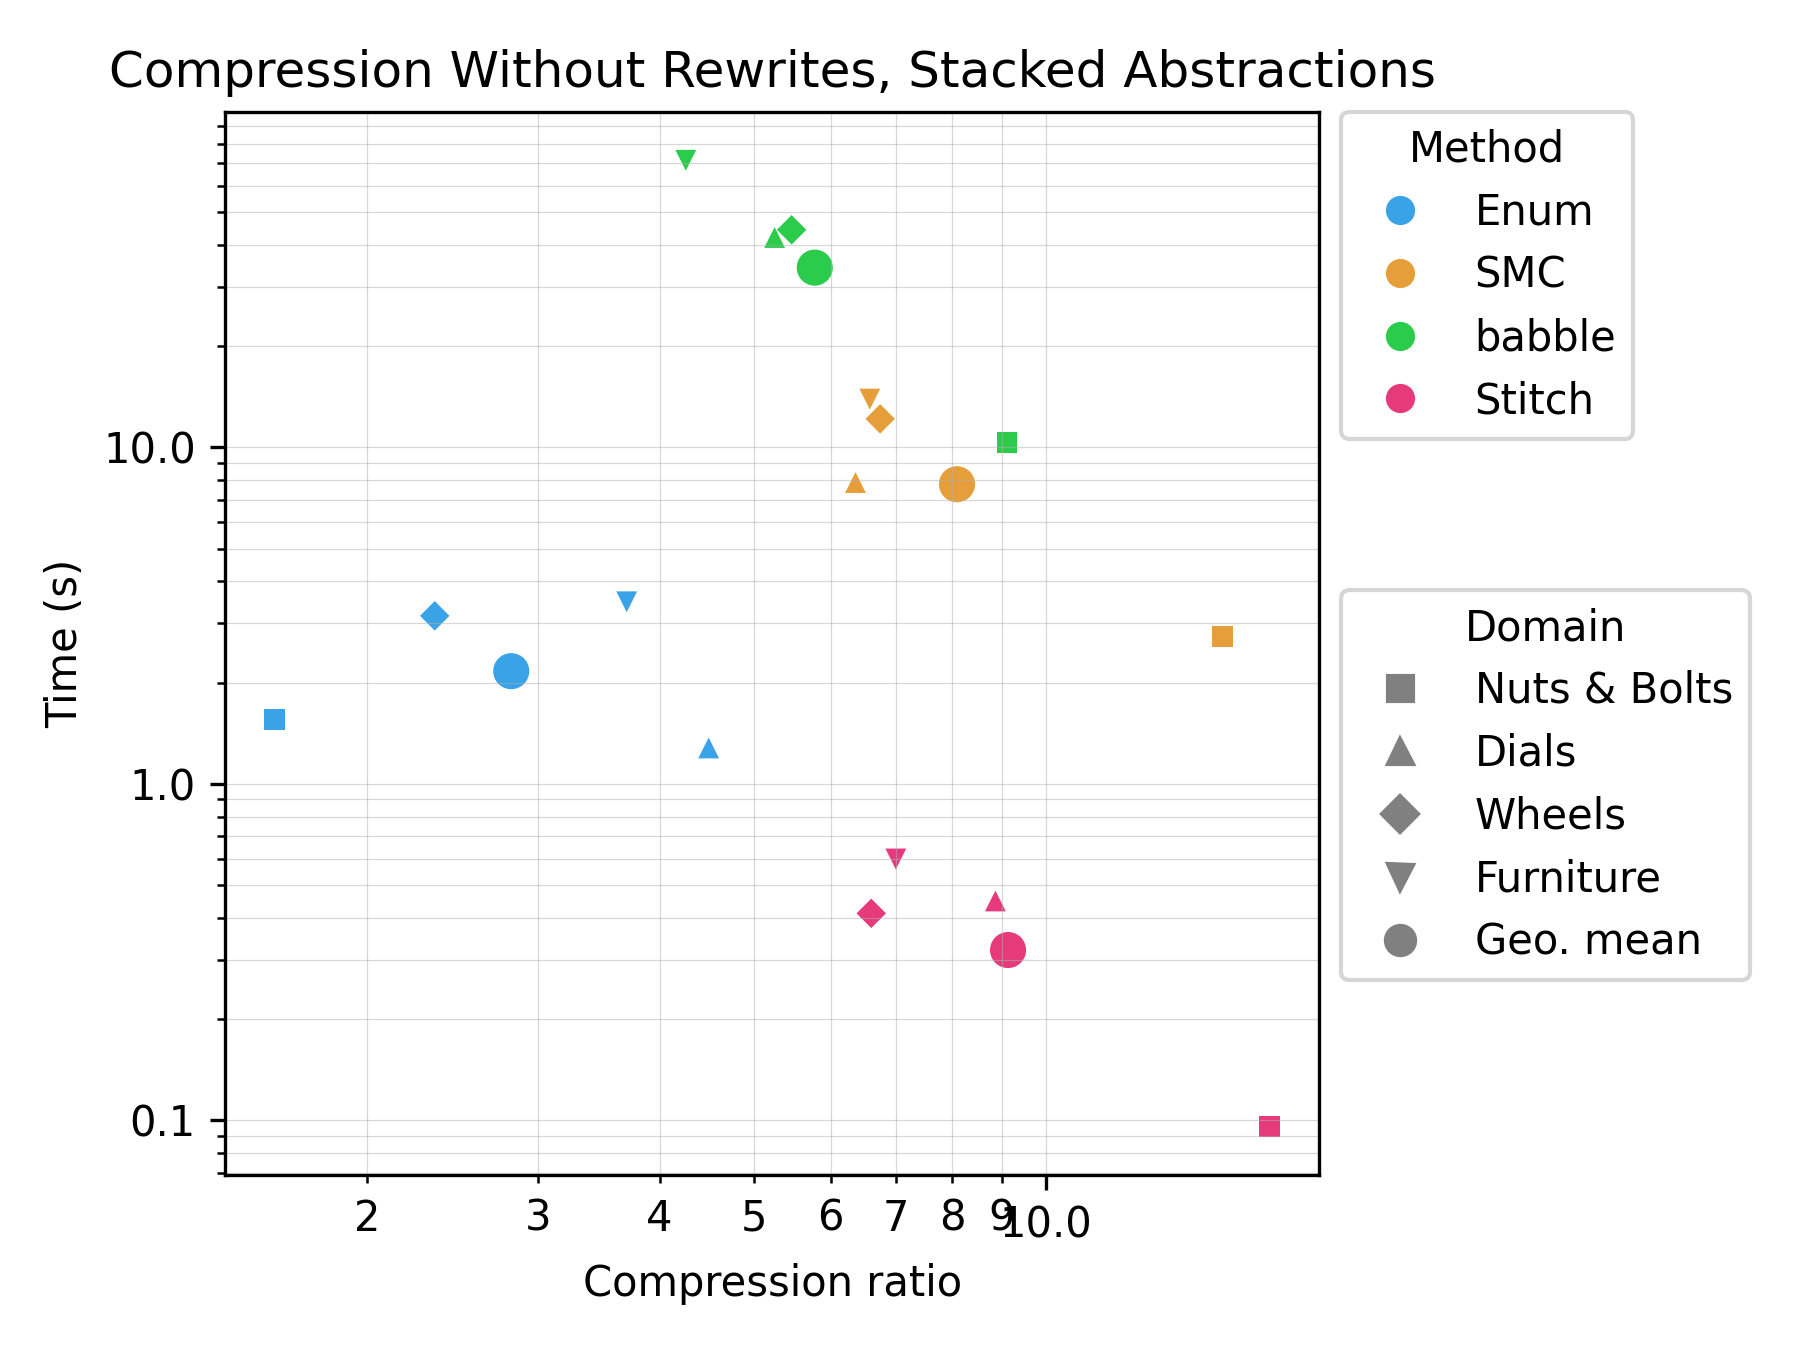
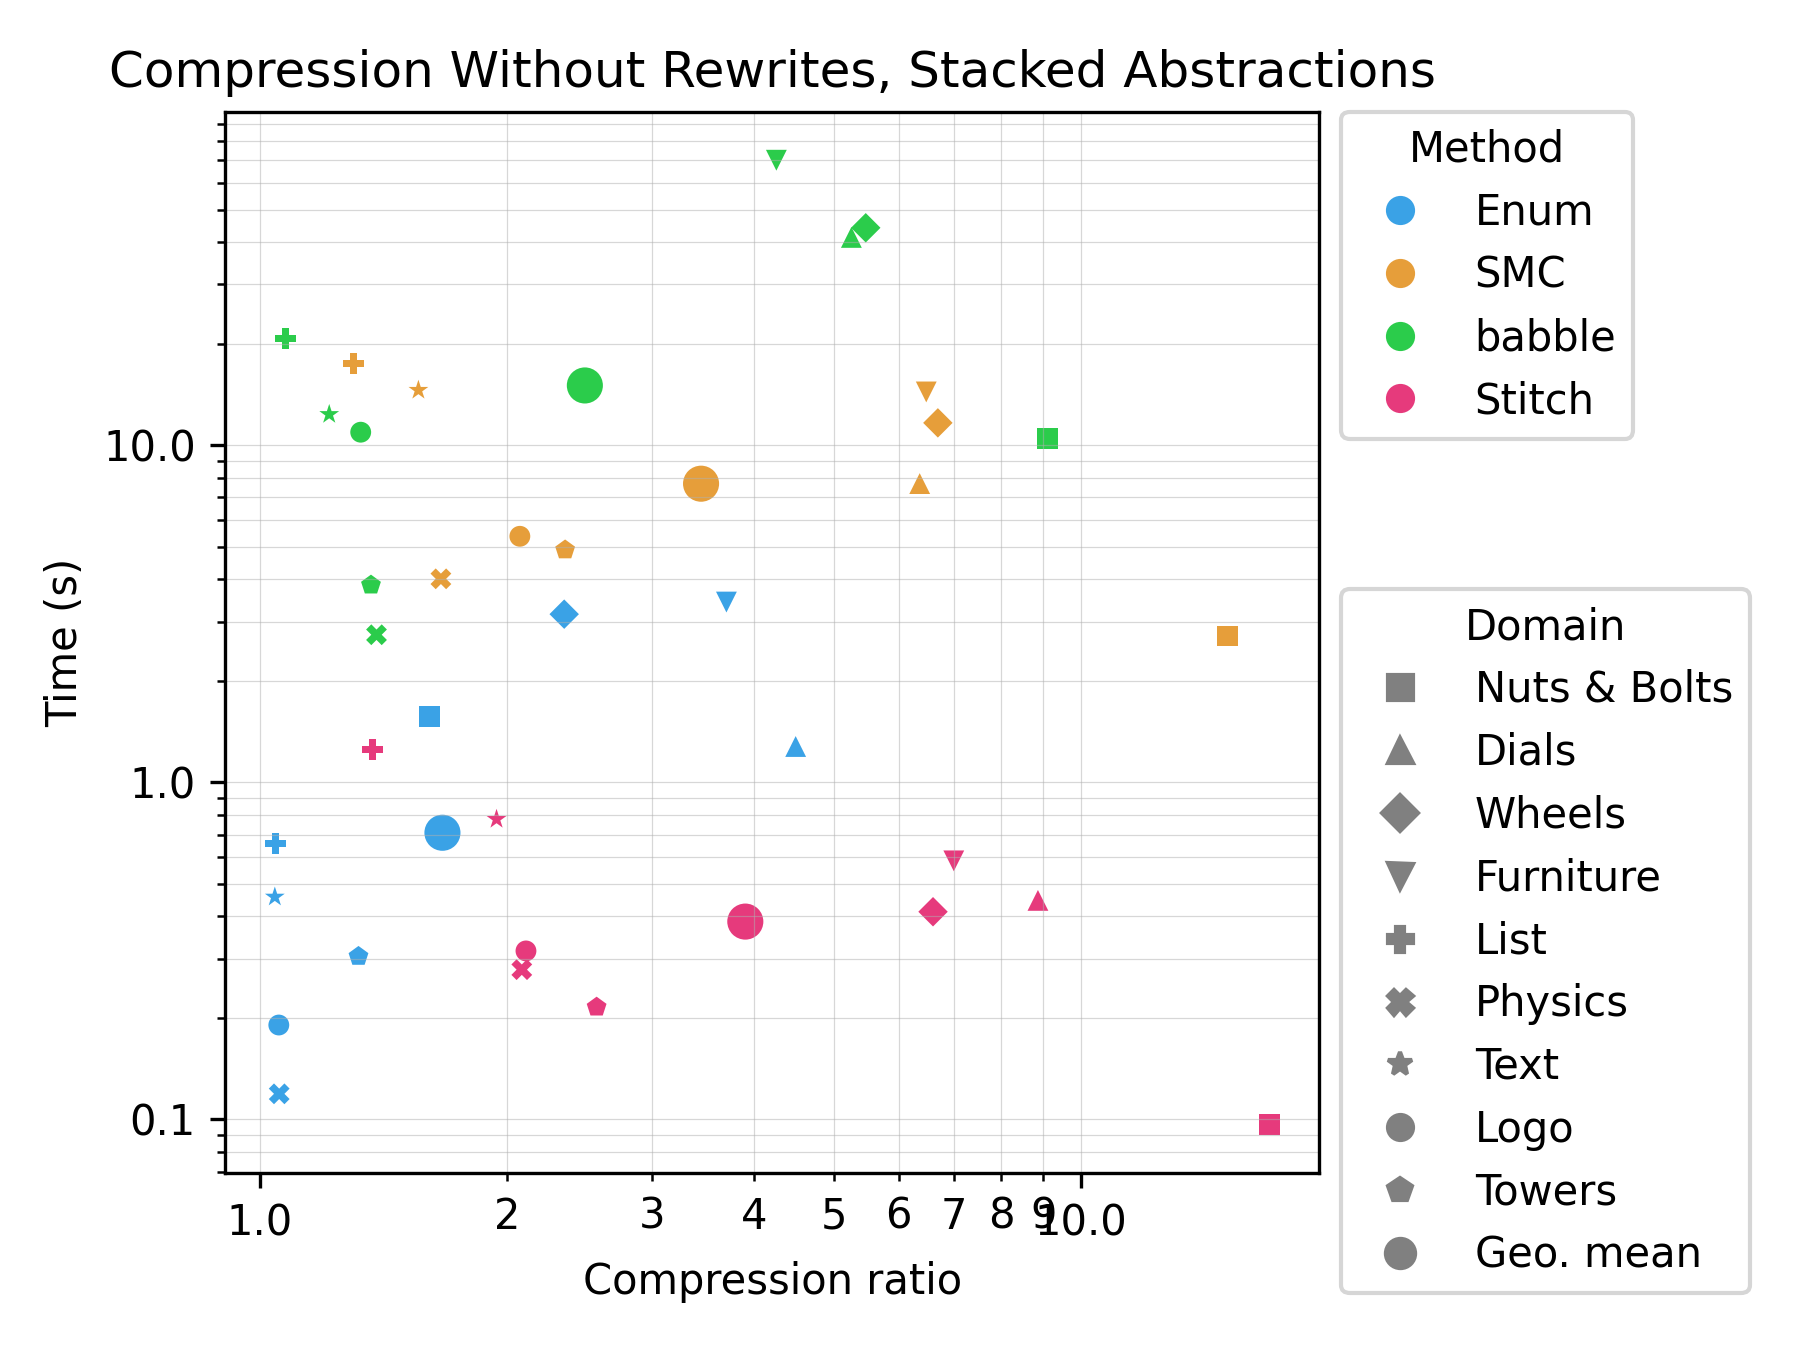
update figures

diff --git a/figures/table4.tex b/figures/table4.tex
@@ -1,4 +1,4 @@
-% source: /home/kavi/mit/egg-stitch/viz/results/table4/2026-05-06_07-55-36/table4.json
+% source: /home/kavi/mit/egg-stitch/viz/results/table4/2026-05-06_17-04-33/table4.json
 % Compression Without Rewrites, Stacked Abstractions: generated from results JSON
 \begin{tabular}{l r  rrrr rrrr}
 \toprule
@@ -6,11 +6,16 @@
 \cmidrule(lr){2-2} \cmidrule(lr){3-6} \cmidrule(lr){7-10}
 Domain & Original & Enum & SMC & babble & Stitch & Enum & SMC & babble & Stitch \\
 \midrule
-Nuts \& Bolts & 19009 & 1.61 & 15.19 & 9.11 & \textbf{16.99} & 1.559 & 2.744 & 10.318 & \textbf{0.096} \\
-Dials & 35713 & 4.49 & 6.36 & 5.25 & \textbf{8.87} & 1.279 & 7.864 & 42.058 & \textbf{0.449} \\
-Wheels & 35427 & 2.35 & \textbf{6.75} & 5.47 & 6.61 & 3.159 & 12.158 & 44.328 & \textbf{0.413} \\
-Furniture & 42936 & 3.70 & 6.58 & 4.26 & \textbf{7.00} & 3.478 & 13.919 & 71.311 & \textbf{0.598} \\
+Nuts \& Bolts & 19009 & 1.61 & 15.09 & 9.11 & \textbf{16.99} & 1.566 & 2.716 & 10.453 & \textbf{0.096} \\
+Dials & 35713 & 4.49 & 6.36 & 5.25 & \textbf{8.87} & 1.277 & 7.698 & 41.378 & \textbf{0.446} \\
+Wheels & 35427 & 2.35 & \textbf{6.70} & 5.47 & 6.61 & 3.154 & 11.654 & 44.191 & \textbf{0.413} \\
+Furniture & 42936 & 3.70 & 6.48 & 4.26 & \textbf{7.00} & 3.426 & 14.396 & 70.107 & \textbf{0.585} \\
+List & 35680 & 1.04 & 1.30 & 1.07 & \textbf{1.37} & \textbf{0.659} & 17.459 & 20.731 & 1.250 \\
+Physics & 9405 & 1.06 & 1.66 & 1.39 & \textbf{2.08} & \textbf{0.119} & 4.016 & 2.741 & 0.278 \\
+Text & 30002 & 1.04 & 1.56 & 1.21 & \textbf{1.94} & \textbf{0.457} & 14.574 & 12.354 & 0.777 \\
+Logo & 11228 & 1.05 & 2.07 & 1.33 & \textbf{2.11} & \textbf{0.190} & 5.370 & 10.935 & 0.316 \\
+Towers & 9556 & 1.32 & 2.35 & 1.37 & \textbf{2.57} & 0.304 & 4.893 & 3.849 & \textbf{0.215} \\
 \midrule
-Geo. mean &  & 2.81 & 8.09 & 5.78 & \textbf{9.14} & 2.163 & 7.774 & 34.223 & \textbf{0.321} \\
+Geo. mean &  & 1.67 & 3.45 & 2.49 & \textbf{3.90} & 0.708 & 7.691 & 15.049 & \textbf{0.386} \\
 \bottomrule
 \end{tabular}

diff --git a/figures/table2.tex b/figures/table2.tex
@@ -1,4 +1,4 @@
-% source: /home/kavi/mit/egg-stitch/viz/results/table2/2026-05-06_07-14-00/table2.json
+% source: /home/kavi/mit/egg-stitch/viz/results/table2/2026-05-06_16-12-58/table2.json
 % Compression Without Rewrites: generated from results JSON
 \begin{tabular}{l r  rrrr rrrr}
 \toprule
@@ -6,11 +6,16 @@
 \cmidrule(lr){2-2} \cmidrule(lr){3-6} \cmidrule(lr){7-10}
 Domain & Original & Enum & SMC & babble & Stitch & Enum & SMC & babble & Stitch \\
 \midrule
-Nuts \& Bolts & 19009 & 1.29 & 1.65 & 1.67 & \textbf{1.78} & 0.069 & 0.302 & 2.014 & \textbf{0.043} \\
-Dials & 35713 & 1.22 & 1.23 & 1.26 & \textbf{1.27} & 0.113 & 0.497 & 7.699 & \textbf{0.107} \\
-Wheels & 35427 & 1.22 & 1.24 & 1.14 & \textbf{1.24} & 0.295 & 0.282 & 4.589 & \textbf{0.108} \\
-Furniture & 42936 & 1.04 & 1.38 & 1.22 & \textbf{1.38} & 0.351 & 1.121 & 11.426 & \textbf{0.149} \\
+Nuts \& Bolts & 19009 & 1.29 & 1.65 & 1.67 & \textbf{1.78} & 0.068 & 0.301 & 2.016 & \textbf{0.043} \\
+Dials & 35713 & 1.22 & 1.23 & 1.26 & \textbf{1.27} & 0.113 & 0.553 & 7.625 & \textbf{0.108} \\
+Wheels & 35427 & 1.22 & 1.24 & 1.14 & \textbf{1.24} & 0.297 & 0.266 & 4.562 & \textbf{0.109} \\
+Furniture & 42936 & 1.04 & 1.38 & 1.22 & \textbf{1.38} & 0.354 & 1.148 & 11.364 & \textbf{0.147} \\
+List & 35680 & 1.01 & 1.03 & 1.03 & \textbf{1.07} & 0.215 & 1.420 & 2.178 & \textbf{0.201} \\
+Physics & 9405 & 1.01 & 1.05 & 1.04 & \textbf{1.07} & \textbf{0.045} & 0.383 & 0.455 & 0.055 \\
+Text & 30002 & 1.01 & 1.05 & 1.05 & \textbf{1.10} & \textbf{0.182} & 1.362 & 1.341 & 0.184 \\
+Logo & 11228 & 1.01 & 1.08 & 1.05 & \textbf{1.12} & \textbf{0.055} & 0.403 & 1.535 & 0.060 \\
+Towers & 9556 & 1.07 & 1.14 & 1.16 & \textbf{1.34} & 0.056 & 0.430 & 0.709 & \textbf{0.055} \\
 \midrule
-Geo. mean &  & 1.19 & 1.37 & 1.31 & \textbf{1.40} & 0.169 & 0.467 & 5.340 & \textbf{0.093} \\
+Geo. mean &  & 1.09 & 1.19 & 1.17 & \textbf{1.25} & 0.118 & 0.572 & 2.189 & \textbf{0.093} \\
 \bottomrule
 \end{tabular}

diff --git a/figures/table3.tex b/figures/table3.tex
@@ -1,4 +1,4 @@
-% source: /home/kavi/mit/egg-stitch/viz/results/table3/2026-05-06_07-18-58/table3.json
+% source: /home/kavi/mit/egg-stitch/viz/results/table3/2026-05-06_16-19-59/table3.json
 % Compression Using Rewrites, Stacked Abstractions: generated from results JSON
 \begin{tabular}{l r r rrrr rrrr}
 \toprule
@@ -6,11 +6,13 @@
 \cmidrule(lr){2-3} \cmidrule(lr){4-7} \cmidrule(lr){8-11}
 Domain & Original & E-graph min & Enum & SMC & babble & Stitch & Enum & SMC & babble & Stitch \\
 \midrule
-Nuts \& Bolts & 19009 & 19296 & 10.28 & \textbf{16.08} & 10.43 & N/A & \textbf{1.537} & 13.749 & 22.249 & N/A \\
-Dials & 35713 & 20846 & 5.27 & \textbf{9.58} & 7.09 & N/A & \textbf{1.016} & 5.871 & 43.774 & N/A \\
-Wheels & 35427 & 30308 & 1.91 & \textbf{8.47} & 6.44 & N/A & \textbf{1.509} & 8.911 & 42.650 & N/A \\
-Furniture & 42936 & 37268 & 3.26 & \textbf{6.97} & 4.56 & N/A & \textbf{3.212} & 14.024 & 60.513 & N/A \\
+Nuts \& Bolts & 19009 & 19009 & 10.28 & \textbf{15.71} & 10.43 & N/A & \textbf{1.519} & 12.940 & 22.058 & N/A \\
+Dials & 35713 & 20583 & 5.27 & \textbf{9.77} & 7.09 & N/A & \textbf{1.002} & 5.972 & 43.310 & N/A \\
+Wheels & 35427 & 30257 & 1.91 & \textbf{8.52} & 6.44 & N/A & \textbf{1.494} & 9.087 & 42.642 & N/A \\
+Furniture & 42936 & 37028 & 3.26 & \textbf{6.76} & 4.56 & N/A & \textbf{3.200} & 13.697 & 60.396 & N/A \\
+List & 35680 & 35592 & 1.05 & \textbf{1.31} & 1.07 & N/A & \textbf{0.754} & 18.423 & 22.107 & N/A \\
+Physics & 9405 & 9405 & 1.06 & \textbf{1.67} & 1.37 & N/A & \textbf{0.156} & 4.262 & 3.447 & N/A \\
 \midrule
-Geo. mean &  &  & 4.29 & \textbf{9.77} & 6.82 & N/A & \textbf{1.658} & 10.022 & 39.818 & N/A \\
+Geo. mean &  &  & 2.68 & \textbf{5.18} & 3.84 & N/A & \textbf{0.974} & 9.543 & 23.924 & N/A \\
 \bottomrule
 \end{tabular}

diff --git a/figures/table1.tex b/figures/table1.tex
@@ -1,4 +1,4 @@
-% source: /home/kavi/mit/egg-stitch/viz/results/table1/2026-05-06_07-02-44/table1.json
+% source: /home/kavi/mit/egg-stitch/viz/results/table1/2026-05-06_16-00-47/table1.json
 % Compression Using Rewrites: generated from results JSON
 \begin{tabular}{l r r rrrr rrrr}
 \toprule
@@ -6,11 +6,13 @@
 \cmidrule(lr){2-3} \cmidrule(lr){4-7} \cmidrule(lr){8-11}
 Domain & Original & E-graph min & Enum & SMC & babble & Stitch & Enum & SMC & babble & Stitch \\
 \midrule
-Nuts \& Bolts & 19009 & 19016 & 1.24 & 1.73 & \textbf{1.75} & N/A & \textbf{0.378} & 1.301 & 11.364 & N/A \\
-Dials & 35713 & 20618 & 2.07 & 2.08 & \textbf{2.17} & N/A & \textbf{0.076} & 0.692 & 28.526 & N/A \\
-Wheels & 35427 & 30264 & \textbf{1.45} & \textbf{1.45} & 1.36 & N/A & 0.289 & \textbf{0.249} & 8.788 & N/A \\
-Furniture & 42936 & 37079 & 1.31 & \textbf{1.70} & 1.39 & N/A & \textbf{0.284} & 0.887 & 14.514 & N/A \\
+Nuts \& Bolts & 19009 & 19009 & 1.24 & 1.68 & \textbf{1.75} & N/A & \textbf{0.382} & 1.287 & 11.387 & N/A \\
+Dials & 35713 & 20583 & 2.07 & 2.08 & \textbf{2.17} & N/A & \textbf{0.076} & 0.620 & 28.602 & N/A \\
+Wheels & 35427 & 30257 & \textbf{1.45} & \textbf{1.45} & 1.36 & N/A & \textbf{0.288} & 0.303 & 8.807 & N/A \\
+Furniture & 42936 & 37028 & 1.31 & \textbf{1.70} & 1.39 & N/A & \textbf{0.286} & 0.885 & 14.449 & N/A \\
+List & 35680 & 35592 & 1.01 & \textbf{1.04} & 1.03 & N/A & \textbf{0.262} & 1.581 & 2.282 & N/A \\
+Physics & 9405 & 9405 & 1.01 & \textbf{1.06} & 1.04 & N/A & \textbf{0.055} & 0.414 & 0.591 & N/A \\
 \midrule
-Geo. mean &  &  & 1.49 & \textbf{1.73} & 1.63 & N/A & \textbf{0.220} & 0.668 & 14.260 & N/A \\
+Geo. mean &  &  & 1.31 & \textbf{1.46} & 1.40 & N/A & \textbf{0.181} & 0.721 & 6.183 & N/A \\
 \bottomrule
 \end{tabular}
